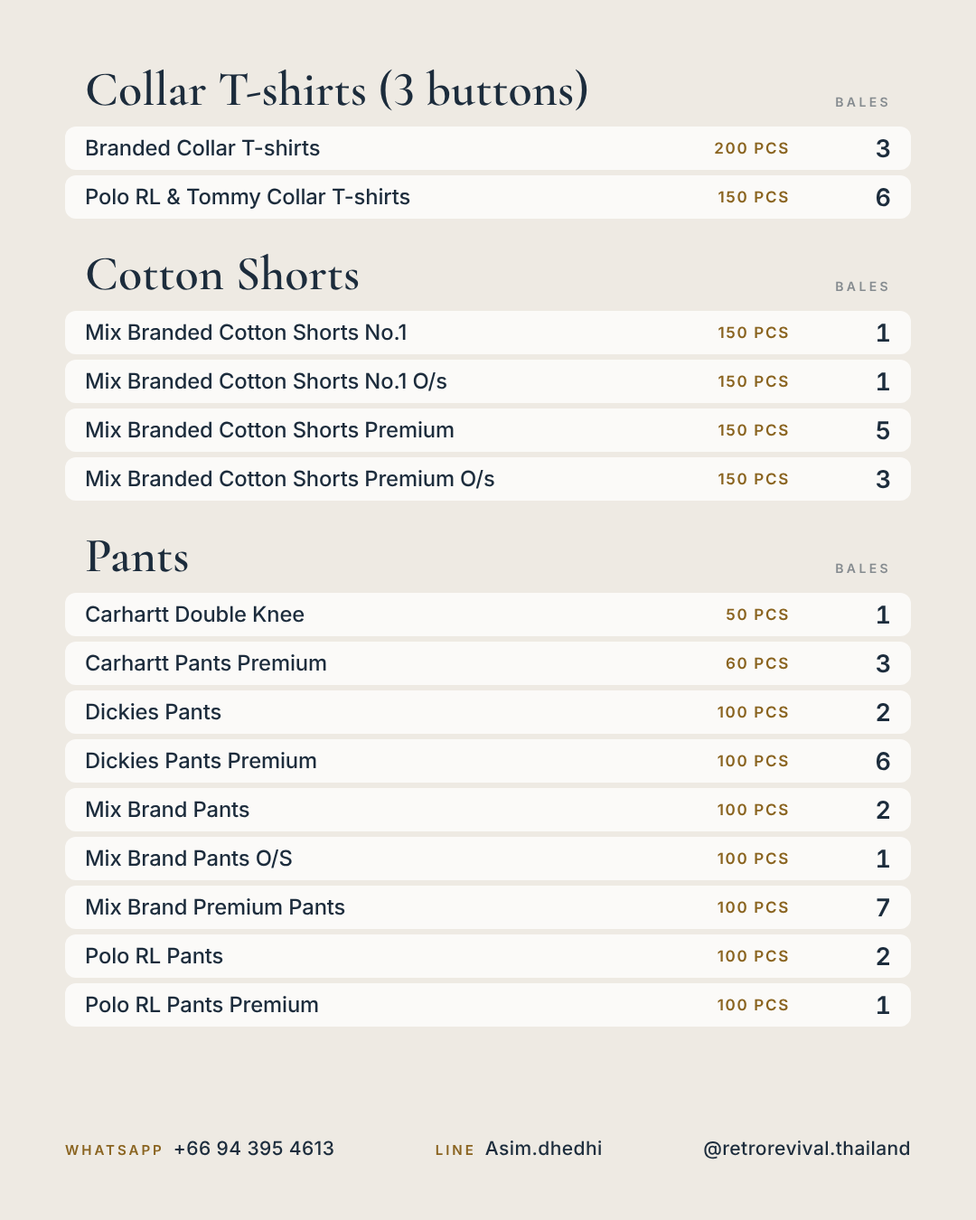
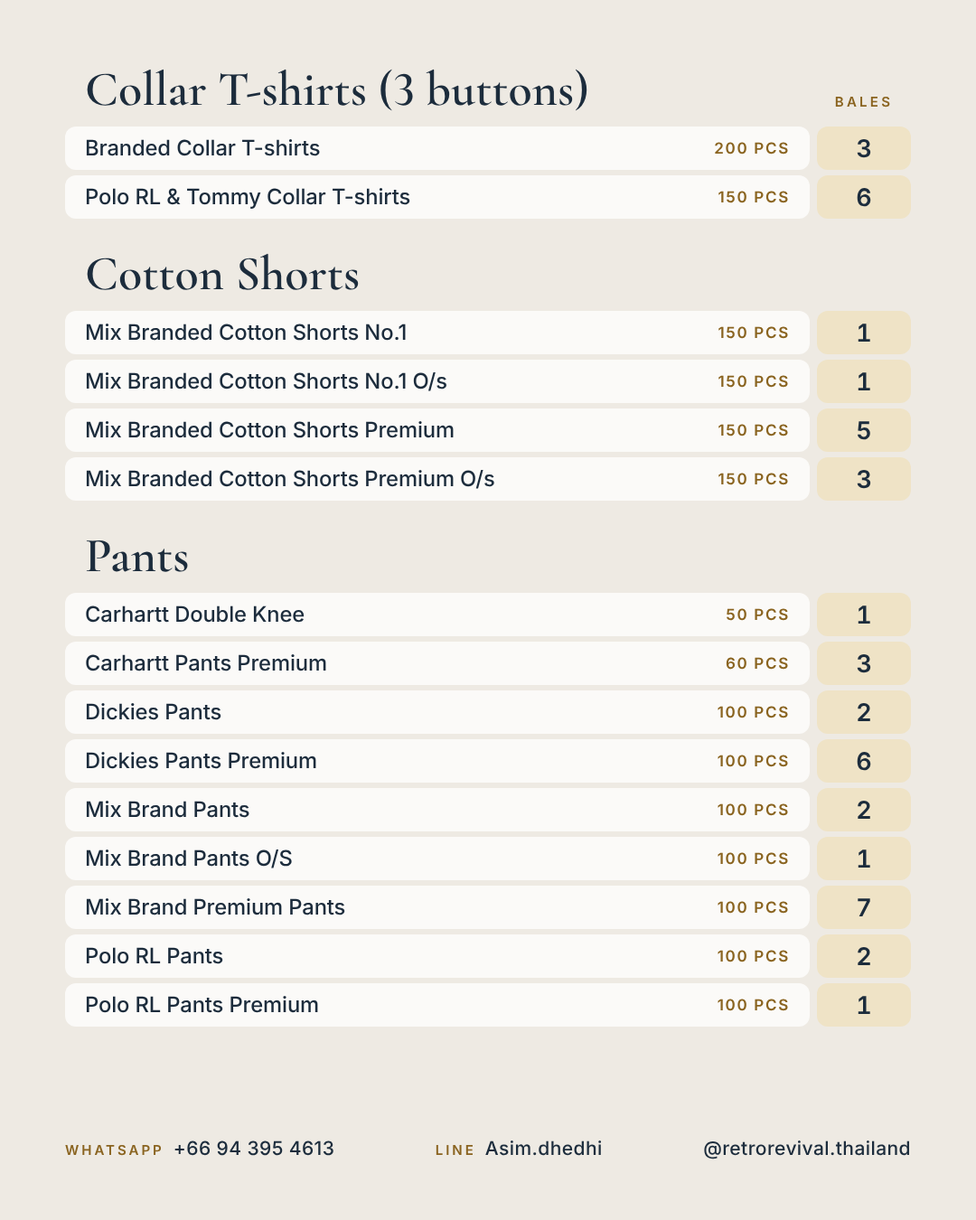
Cover section pills; bale counts in their own box
Cover drops the eyebrow and the containers line and lists every section
as a pill under the month. List rows split into a name-and-packing
container and a separate bale-count box, with one BALES label per
slide. The build stops if cover pills reach the logo or drawing.

Claude-Session: https://claude.ai/code/session_01FjARQ1TdBw1wsppj9LT4t6

Changed region(s): [[0.825, 0.4667, 0.9472, 0.84], [0.825, 0.2178, 0.9472, 0.4356], [0.825, 0.0622, 0.9472, 0.1867]]

diff --git a/projects/stock-drop/output/2026-10/carousel.html b/projects/stock-drop/output/2026-10/carousel.html
@@ -76,11 +76,10 @@
 <path d="M218.0,128 q8,10 18,22" class="strap"/><g transform="rotate(-10 248.0 172)"><rect x="234.0" y="152" width="30" height="40" rx="3" fill="#18273a"/><circle cx="249.0" cy="160" r="2.6"/><path d="M240.0,172 h18 M240.0,180 h12" class="strap"/></g>
 </svg></div>
     <div class="cover-text">
-      <div class="eyebrow">Monthly wholesale release</div>
       <h1>Stock Drop</h1>
       <div class="month">October 2026</div>
-      <div class="rule"></div>
-      <div class="pillars">Fresh containers every month, sorted into categorized bales<br>Lat Krabang, Bangkok · 20 minutes from Suvarnabhumi Airport</div>
+      <div class="pills"><span>Collar T-shirts (3 buttons)</span><span>Army</span><span>Baby</span><span>Branded T-shirts</span><span>Broken</span><span>Caps</span><span>Cotton Shorts</span><span>Jeans</span><span>Men Shirts</span><span>Overall</span><span>Pants</span><span>Printed T-shirts</span><span>Sports Shorts</span><span>Sports T-shirts</span><span>Summer Mix</span><span>Trousers</span><span>Winter</span></div>
+      <div class="pillars">Lat Krabang, Bangkok · 20 minutes from Suvarnabhumi Airport</div>
       <div class="cover-contacts"><span><b>WHATSAPP</b>+66 94 395 4613</span><span><b>LINE</b>Asim.dhedhi</span></div>
     </div>
     <div class="swipe">SWIPE<span>→</span></div>
@@ -91,31 +90,31 @@
       <div class="block">
         <div class="section-head"><h2>Collar T-shirts (3 buttons)</h2><span class="qt">Bales</span></div>
         <ul class="rows">
-          <li><span class="cat">Branded Collar T-shirts</span><span class="pk">200 Pcs</span><span class="qty">3</span></li>
-          <li><span class="cat">Polo RL &amp; Tommy Collar T-shirts</span><span class="pk">150 Pcs</span><span class="qty">6</span></li>
+          <li><span class="item"><span class="cat">Branded Collar T-shirts</span><span class="pk">200 Pcs</span></span><span class="qty">3</span></li>
+          <li><span class="item"><span class="cat">Polo RL &amp; Tommy Collar T-shirts</span><span class="pk">150 Pcs</span></span><span class="qty">6</span></li>
         </ul>
       </div>
       <div class="block">
-        <div class="section-head"><h2>Cotton Shorts</h2><span class="qt">Bales</span></div>
+        <div class="section-head"><h2>Cotton Shorts</h2></div>
         <ul class="rows">
-          <li><span class="cat">Mix Branded Cotton Shorts No.1</span><span class="pk">150 Pcs</span><span class="qty">1</span></li>
-          <li><span class="cat">Mix Branded Cotton Shorts No.1 O/s</span><span class="pk">150 Pcs</span><span class="qty">1</span></li>
-          <li><span class="cat">Mix Branded Cotton Shorts Premium</span><span class="pk">150 Pcs</span><span class="qty">5</span></li>
-          <li><span class="cat">Mix Branded Cotton Shorts Premium O/s</span><span class="pk">150 Pcs</span><span class="qty">3</span></li>
+          <li><span class="item"><span class="cat">Mix Branded Cotton Shorts No.1</span><span class="pk">150 Pcs</span></span><span class="qty">1</span></li>
+          <li><span class="item"><span class="cat">Mix Branded Cotton Shorts No.1 O/s</span><span class="pk">150 Pcs</span></span><span class="qty">1</span></li>
+          <li><span class="item"><span class="cat">Mix Branded Cotton Shorts Premium</span><span class="pk">150 Pcs</span></span><span class="qty">5</span></li>
+          <li><span class="item"><span class="cat">Mix Branded Cotton Shorts Premium O/s</span><span class="pk">150 Pcs</span></span><span class="qty">3</span></li>
         </ul>
       </div>
       <div class="block">
-        <div class="section-head"><h2>Pants</h2><span class="qt">Bales</span></div>
+        <div class="section-head"><h2>Pants</h2></div>
         <ul class="rows">
-          <li><span class="cat">Carhartt Double Knee</span><span class="pk">50 Pcs</span><span class="qty">1</span></li>
-          <li><span class="cat">Carhartt Pants Premium</span><span class="pk">60 Pcs</span><span class="qty">3</span></li>
-          <li><span class="cat">Dickies Pants</span><span class="pk">100 Pcs</span><span class="qty">2</span></li>
-          <li><span class="cat">Dickies Pants Premium</span><span class="pk">100 Pcs</span><span class="qty">6</span></li>
-          <li><span class="cat">Mix Brand Pants</span><span class="pk">100 Pcs</span><span class="qty">2</span></li>
-          <li><span class="cat">Mix Brand Pants O/S</span><span class="pk">100 Pcs</span><span class="qty">1</span></li>
-          <li><span class="cat">Mix Brand Premium Pants</span><span class="pk">100 Pcs</span><span class="qty">7</span></li>
-          <li><span class="cat">Polo RL Pants</span><span class="pk">100 Pcs</span><span class="qty">2</span></li>
-          <li><span class="cat">Polo RL Pants Premium</span><span class="pk">100 Pcs</span><span class="qty">1</span></li>
+          <li><span class="item"><span class="cat">Carhartt Double Knee</span><span class="pk">50 Pcs</span></span><span class="qty">1</span></li>
+          <li><span class="item"><span class="cat">Carhartt Pants Premium</span><span class="pk">60 Pcs</span></span><span class="qty">3</span></li>
+          <li><span class="item"><span class="cat">Dickies Pants</span><span class="pk">100 Pcs</span></span><span class="qty">2</span></li>
+          <li><span class="item"><span class="cat">Dickies Pants Premium</span><span class="pk">100 Pcs</span></span><span class="qty">6</span></li>
+          <li><span class="item"><span class="cat">Mix Brand Pants</span><span class="pk">100 Pcs</span></span><span class="qty">2</span></li>
+          <li><span class="item"><span class="cat">Mix Brand Pants O/S</span><span class="pk">100 Pcs</span></span><span class="qty">1</span></li>
+          <li><span class="item"><span class="cat">Mix Brand Premium Pants</span><span class="pk">100 Pcs</span></span><span class="qty">7</span></li>
+          <li><span class="item"><span class="cat">Polo RL Pants</span><span class="pk">100 Pcs</span></span><span class="qty">2</span></li>
+          <li><span class="item"><span class="cat">Polo RL Pants Premium</span><span class="pk">100 Pcs</span></span><span class="qty">1</span></li>
         </ul>
       </div>
     </div>
@@ -133,36 +132,36 @@
       <div class="block">
         <div class="section-head"><h2>Army</h2><span class="qt">Bales</span></div>
         <ul class="rows">
-          <li><span class="cat">Army Summer Mix</span><span class="pk">60 Pcs</span><span class="qty">8</span></li>
-          <li><span class="cat">Vintage Army Mix Broken</span><span class="pk">100 Lbs</span><span class="qty">3</span></li>
+          <li><span class="item"><span class="cat">Army Summer Mix</span><span class="pk">60 Pcs</span></span><span class="qty">8</span></li>
+          <li><span class="item"><span class="cat">Vintage Army Mix Broken</span><span class="pk">100 Lbs</span></span><span class="qty">3</span></li>
         </ul>
       </div>
       <div class="block">
-        <div class="section-head"><h2>Baby</h2><span class="qt">Bales</span></div>
+        <div class="section-head"><h2>Baby</h2></div>
         <ul class="rows">
-          <li><span class="cat">Baby Vintage</span><span class="pk">100 Lbs</span><span class="qty">9</span></li>
+          <li><span class="item"><span class="cat">Baby Vintage</span><span class="pk">100 Lbs</span></span><span class="qty">9</span></li>
         </ul>
       </div>
       <div class="block">
-        <div class="section-head"><h2>Overall</h2><span class="qt">Bales</span></div>
+        <div class="section-head"><h2>Overall</h2></div>
         <ul class="rows">
-          <li><span class="cat">Canvas Material</span><span class="pk">30 Pcs</span><span class="qty">2</span></li>
-          <li><span class="cat">Cotton Overall Mix</span><span class="pk">30 Pcs</span><span class="qty">1</span></li>
-          <li><span class="cat">Jeans Material</span><span class="pk">30 Pcs</span><span class="qty">3</span></li>
+          <li><span class="item"><span class="cat">Canvas Material</span><span class="pk">30 Pcs</span></span><span class="qty">2</span></li>
+          <li><span class="item"><span class="cat">Cotton Overall Mix</span><span class="pk">30 Pcs</span></span><span class="qty">1</span></li>
+          <li><span class="item"><span class="cat">Jeans Material</span><span class="pk">30 Pcs</span></span><span class="qty">3</span></li>
         </ul>
       </div>
       <div class="block">
-        <div class="section-head"><h2>Sports T-shirts</h2><span class="qt">Bales</span></div>
+        <div class="section-head"><h2>Sports T-shirts</h2></div>
         <ul class="rows">
-          <li><span class="cat">NBA/NFL Jerseys</span><span class="pk">150 Pcs</span><span class="qty">2</span></li>
-          <li><span class="cat">Sports Branded T-shirts</span><span class="pk">200 Pcs</span><span class="qty">4</span></li>
+          <li><span class="item"><span class="cat">NBA/NFL Jerseys</span><span class="pk">150 Pcs</span></span><span class="qty">2</span></li>
+          <li><span class="item"><span class="cat">Sports Branded T-shirts</span><span class="pk">200 Pcs</span></span><span class="qty">4</span></li>
         </ul>
       </div>
       <div class="block">
-        <div class="section-head"><h2>Trousers</h2><span class="qt">Bales</span></div>
+        <div class="section-head"><h2>Trousers</h2></div>
         <ul class="rows">
-          <li><span class="cat">Track Mix Trouser</span><span class="pk">100 pcs</span><span class="qty">4</span></li>
-          <li><span class="cat">Vintage mix Trouser</span><span class="pk">100 Pcs</span><span class="qty">2</span></li>
+          <li><span class="item"><span class="cat">Track Mix Trouser</span><span class="pk">100 pcs</span></span><span class="qty">4</span></li>
+          <li><span class="item"><span class="cat">Vintage mix Trouser</span><span class="pk">100 Pcs</span></span><span class="qty">2</span></li>
         </ul>
       </div>
     </div>
@@ -180,28 +179,28 @@
       <div class="block">
         <div class="section-head"><h2>Branded T-shirts</h2><span class="qt">Bales</span></div>
         <ul class="rows">
-          <li><span class="cat">Branded T-Shirts Over Size</span><span class="pk">100 Lbs</span><span class="qty">5</span></li>
-          <li><span class="cat">Carhartt T-Shirts</span><span class="pk">150 Pcs</span><span class="qty">4</span></li>
-          <li><span class="cat">Mix Branded T-shirts</span><span class="pk">200 Pcs</span><span class="qty">17</span></li>
+          <li><span class="item"><span class="cat">Branded T-Shirts Over Size</span><span class="pk">100 Lbs</span></span><span class="qty">5</span></li>
+          <li><span class="item"><span class="cat">Carhartt T-Shirts</span><span class="pk">150 Pcs</span></span><span class="qty">4</span></li>
+          <li><span class="item"><span class="cat">Mix Branded T-shirts</span><span class="pk">200 Pcs</span></span><span class="qty">17</span></li>
         </ul>
       </div>
       <div class="block">
-        <div class="section-head"><h2>Printed T-shirts</h2><span class="qt">Bales</span></div>
+        <div class="section-head"><h2>Printed T-shirts</h2></div>
         <ul class="rows">
-          <li><span class="cat">Vintage Oversize Printed T-Shirts</span><span class="pk">100 Lbs</span><span class="qty">9</span></li>
-          <li><span class="cat">France T-Shirts</span><span class="pk">100 Lbs</span><span class="qty">4</span></li>
-          <li><span class="cat">50/50 T-shirts</span><span class="pk">200 Pcs</span><span class="qty">3</span></li>
-          <li><span class="cat">American Movie Print T-shirts</span><span class="pk">200 Pcs</span><span class="qty">6</span></li>
-          <li><span class="cat">Anime Cartoon Print T-shirts</span><span class="pk">200 Pcs</span><span class="qty">2</span></li>
-          <li><span class="cat">Army Mix T-shirts</span><span class="pk">200 Pcs</span><span class="qty">1</span></li>
-          <li><span class="cat">Disney Cartoon T-shirts</span><span class="pk">200 Pcs</span><span class="qty">4</span></li>
-          <li><span class="cat">Harley-Davidson T-shirts</span><span class="pk">150 Pcs</span><span class="qty">3</span></li>
-          <li><span class="cat">Marvel Movie Print</span><span class="pk">200 Pcs</span><span class="qty">2</span></li>
-          <li><span class="cat">Mountain T-shirts</span><span class="pk">150 Pcs</span><span class="qty">1</span></li>
-          <li><span class="cat">Music T-shirts</span><span class="pk">200 Pcs</span><span class="qty">12</span></li>
-          <li><span class="cat">NASCAR T-shirts</span><span class="pk">150 Pcs</span><span class="qty">1</span></li>
-          <li><span class="cat">Single Stitch T-shirts</span><span class="pk">200 Pcs</span><span class="qty">4</span></li>
-          <li><span class="cat">Vintage Printed T-shirts</span><span class="pk">200 Pcs</span><span class="qty">18</span></li>
+          <li><span class="item"><span class="cat">Vintage Oversize Printed T-Shirts</span><span class="pk">100 Lbs</span></span><span class="qty">9</span></li>
+          <li><span class="item"><span class="cat">France T-Shirts</span><span class="pk">100 Lbs</span></span><span class="qty">4</span></li>
+          <li><span class="item"><span class="cat">50/50 T-shirts</span><span class="pk">200 Pcs</span></span><span class="qty">3</span></li>
+          <li><span class="item"><span class="cat">American Movie Print T-shirts</span><span class="pk">200 Pcs</span></span><span class="qty">6</span></li>
+          <li><span class="item"><span class="cat">Anime Cartoon Print T-shirts</span><span class="pk">200 Pcs</span></span><span class="qty">2</span></li>
+          <li><span class="item"><span class="cat">Army Mix T-shirts</span><span class="pk">200 Pcs</span></span><span class="qty">1</span></li>
+          <li><span class="item"><span class="cat">Disney Cartoon T-shirts</span><span class="pk">200 Pcs</span></span><span class="qty">4</span></li>
+          <li><span class="item"><span class="cat">Harley-Davidson T-shirts</span><span class="pk">150 Pcs</span></span><span class="qty">3</span></li>
+          <li><span class="item"><span class="cat">Marvel Movie Print</span><span class="pk">200 Pcs</span></span><span class="qty">2</span></li>
+          <li><span class="item"><span class="cat">Mountain T-shirts</span><span class="pk">150 Pcs</span></span><span class="qty">1</span></li>
+          <li><span class="item"><span class="cat">Music T-shirts</span><span class="pk">200 Pcs</span></span><span class="qty">12</span></li>
+          <li><span class="item"><span class="cat">NASCAR T-shirts</span><span class="pk">150 Pcs</span></span><span class="qty">1</span></li>
+          <li><span class="item"><span class="cat">Single Stitch T-shirts</span><span class="pk">200 Pcs</span></span><span class="qty">4</span></li>
+          <li><span class="item"><span class="cat">Vintage Printed T-shirts</span><span class="pk">200 Pcs</span></span><span class="qty">18</span></li>
         </ul>
       </div>
     </div>
@@ -219,26 +218,26 @@
       <div class="block">
         <div class="section-head"><h2>Broken</h2><span class="qt">Bales</span></div>
         <ul class="rows">
-          <li><span class="cat">Levi's Coded Broken</span><span class="pk">60 Pcs</span><span class="qty">32</span></li>
-          <li><span class="cat">Vintage Broken T-Shirts</span><span class="pk">100 Lbs</span><span class="qty">21</span></li>
-          <li><span class="cat">Vintage Carhartt Mix Broken</span><span class="pk">100 Lbs</span><span class="qty">62</span></li>
-          <li><span class="cat">Vintage Dickies Mix Broken</span><span class="pk">100 Lbs</span><span class="qty">68</span></li>
-          <li><span class="cat">CN Jackets PK</span><span class="pk">100 Lbs</span><span class="qty">1</span></li>
-          <li><span class="cat">Polo RL Cut</span><span class="pk">100 Lbs</span><span class="qty">1</span></li>
+          <li><span class="item"><span class="cat">Levi's Coded Broken</span><span class="pk">60 Pcs</span></span><span class="qty">32</span></li>
+          <li><span class="item"><span class="cat">Vintage Broken T-Shirts</span><span class="pk">100 Lbs</span></span><span class="qty">21</span></li>
+          <li><span class="item"><span class="cat">Vintage Carhartt Mix Broken</span><span class="pk">100 Lbs</span></span><span class="qty">62</span></li>
+          <li><span class="item"><span class="cat">Vintage Dickies Mix Broken</span><span class="pk">100 Lbs</span></span><span class="qty">68</span></li>
+          <li><span class="item"><span class="cat">CN Jackets PK</span><span class="pk">100 Lbs</span></span><span class="qty">1</span></li>
+          <li><span class="item"><span class="cat">Polo RL Cut</span><span class="pk">100 Lbs</span></span><span class="qty">1</span></li>
         </ul>
       </div>
       <div class="block">
-        <div class="section-head"><h2>Men Shirts</h2><span class="qt">Bales</span></div>
+        <div class="section-head"><h2>Men Shirts</h2></div>
         <ul class="rows">
-          <li><span class="cat">Chaps &amp; Nautica Mix Shirts</span><span class="pk">150 Pcs</span><span class="qty">8</span></li>
-          <li><span class="cat">Cowboy Shirts</span><span class="pk">150 Pcs</span><span class="qty">3</span></li>
-          <li><span class="cat">Hawaii Shirts</span><span class="pk">150 Pcs</span><span class="qty">7</span></li>
-          <li><span class="cat">LLW Shirts</span><span class="pk">150 Pcs</span><span class="qty">3</span></li>
-          <li><span class="cat">Polo RL Shirts</span><span class="pk">150 Pcs</span><span class="qty">4</span></li>
-          <li><span class="cat">Premium Fashion Branded Shirts</span><span class="pk">150 Pcs</span><span class="qty">4</span></li>
-          <li><span class="cat">Premium Vintage Branded Shirts</span><span class="pk">150 Pcs</span><span class="qty">7</span></li>
-          <li><span class="cat">Scout Shirts</span><span class="pk">150 Pcs</span><span class="qty">4</span></li>
-          <li><span class="cat">Tommy Hilfiger Shirts</span><span class="pk">150 Pcs</span><span class="qty">2</span></li>
+          <li><span class="item"><span class="cat">Chaps &amp; Nautica Mix Shirts</span><span class="pk">150 Pcs</span></span><span class="qty">8</span></li>
+          <li><span class="item"><span class="cat">Cowboy Shirts</span><span class="pk">150 Pcs</span></span><span class="qty">3</span></li>
+          <li><span class="item"><span class="cat">Hawaii Shirts</span><span class="pk">150 Pcs</span></span><span class="qty">7</span></li>
+          <li><span class="item"><span class="cat">LLW Shirts</span><span class="pk">150 Pcs</span></span><span class="qty">3</span></li>
+          <li><span class="item"><span class="cat">Polo RL Shirts</span><span class="pk">150 Pcs</span></span><span class="qty">4</span></li>
+          <li><span class="item"><span class="cat">Premium Fashion Branded Shirts</span><span class="pk">150 Pcs</span></span><span class="qty">4</span></li>
+          <li><span class="item"><span class="cat">Premium Vintage Branded Shirts</span><span class="pk">150 Pcs</span></span><span class="qty">7</span></li>
+          <li><span class="item"><span class="cat">Scout Shirts</span><span class="pk">150 Pcs</span></span><span class="qty">4</span></li>
+          <li><span class="item"><span class="cat">Tommy Hilfiger Shirts</span><span class="pk">150 Pcs</span></span><span class="qty">2</span></li>
         </ul>
       </div>
     </div>
@@ -256,25 +255,25 @@
       <div class="block">
         <div class="section-head"><h2>Jeans</h2><span class="qt">Bales</span></div>
         <ul class="rows">
-          <li><span class="cat">Carhartt jeans</span><span class="pk">50 Pcs</span><span class="qty">2</span></li>
-          <li><span class="cat">Lee &amp; Wrangler O/s</span><span class="pk">60 Pcs</span><span class="qty">4</span></li>
-          <li><span class="cat">Lee &amp; Wrangler Premium</span><span class="pk">60 Pcs</span><span class="qty">7</span></li>
-          <li><span class="cat">Levi's 501</span><span class="pk">50 Pcs</span><span class="qty">2</span></li>
-          <li><span class="cat">Levi's 505 O/s</span><span class="pk">50 Pcs</span><span class="qty">1</span></li>
-          <li><span class="cat">Levi's 550</span><span class="pk">50 Pcs</span><span class="qty">3</span></li>
-          <li><span class="cat">Levi's 550 O/s</span><span class="pk">50 Pcs</span><span class="qty">2</span></li>
-          <li><span class="cat">Levi's Mix coded O/S</span><span class="pk">60 Pcs</span><span class="qty">1</span></li>
-          <li><span class="cat">Levi's Mix coded Premium</span><span class="pk">60 Pcs</span><span class="qty">8</span></li>
-          <li><span class="cat">Levi's Mix codes</span><span class="pk">60 Pcs</span><span class="qty">6</span></li>
-          <li><span class="cat">Levi's VTG -USA</span><span class="pk">50 Pcs</span><span class="qty">1</span></li>
-          <li><span class="cat">Levi's 501 O/s</span><span class="pk">50 Pcs</span><span class="qty">1</span></li>
-          <li><span class="cat">Levi's 501 Premium</span><span class="pk">50 Pcs</span><span class="qty">2</span></li>
-          <li><span class="cat">Levi's 505</span><span class="pk">50 Pcs</span><span class="qty">5</span></li>
-          <li><span class="cat">Mix Branded Jeans</span><span class="pk">60 Pcs</span><span class="qty">1</span></li>
-          <li><span class="cat">Mix Branded Jeans Premium</span><span class="pk">60 Pcs</span><span class="qty">3</span></li>
-          <li><span class="cat">Rustler Jeans Mix</span><span class="pk">60 Pcs</span><span class="qty">3</span></li>
-          <li><span class="cat">Dickies Jeans</span><span class="pk">50 Pcs</span><span class="qty">2</span></li>
-          <li><span class="cat">Lee &amp; Wrangler</span><span class="pk">60 Pcs</span><span class="qty">7</span></li>
+          <li><span class="item"><span class="cat">Carhartt jeans</span><span class="pk">50 Pcs</span></span><span class="qty">2</span></li>
+          <li><span class="item"><span class="cat">Lee &amp; Wrangler O/s</span><span class="pk">60 Pcs</span></span><span class="qty">4</span></li>
+          <li><span class="item"><span class="cat">Lee &amp; Wrangler Premium</span><span class="pk">60 Pcs</span></span><span class="qty">7</span></li>
+          <li><span class="item"><span class="cat">Levi's 501</span><span class="pk">50 Pcs</span></span><span class="qty">2</span></li>
+          <li><span class="item"><span class="cat">Levi's 505 O/s</span><span class="pk">50 Pcs</span></span><span class="qty">1</span></li>
+          <li><span class="item"><span class="cat">Levi's 550</span><span class="pk">50 Pcs</span></span><span class="qty">3</span></li>
+          <li><span class="item"><span class="cat">Levi's 550 O/s</span><span class="pk">50 Pcs</span></span><span class="qty">2</span></li>
+          <li><span class="item"><span class="cat">Levi's Mix coded O/S</span><span class="pk">60 Pcs</span></span><span class="qty">1</span></li>
+          <li><span class="item"><span class="cat">Levi's Mix coded Premium</span><span class="pk">60 Pcs</span></span><span class="qty">8</span></li>
+          <li><span class="item"><span class="cat">Levi's Mix codes</span><span class="pk">60 Pcs</span></span><span class="qty">6</span></li>
+          <li><span class="item"><span class="cat">Levi's VTG -USA</span><span class="pk">50 Pcs</span></span><span class="qty">1</span></li>
+          <li><span class="item"><span class="cat">Levi's 501 O/s</span><span class="pk">50 Pcs</span></span><span class="qty">1</span></li>
+          <li><span class="item"><span class="cat">Levi's 501 Premium</span><span class="pk">50 Pcs</span></span><span class="qty">2</span></li>
+          <li><span class="item"><span class="cat">Levi's 505</span><span class="pk">50 Pcs</span></span><span class="qty">5</span></li>
+          <li><span class="item"><span class="cat">Mix Branded Jeans</span><span class="pk">60 Pcs</span></span><span class="qty">1</span></li>
+          <li><span class="item"><span class="cat">Mix Branded Jeans Premium</span><span class="pk">60 Pcs</span></span><span class="qty">3</span></li>
+          <li><span class="item"><span class="cat">Rustler Jeans Mix</span><span class="pk">60 Pcs</span></span><span class="qty">3</span></li>
+          <li><span class="item"><span class="cat">Dickies Jeans</span><span class="pk">50 Pcs</span></span><span class="qty">2</span></li>
+          <li><span class="item"><span class="cat">Lee &amp; Wrangler</span><span class="pk">60 Pcs</span></span><span class="qty">7</span></li>
         </ul>
       </div>
     </div>
@@ -292,25 +291,25 @@
       <div class="block">
         <div class="section-head"><h2>Caps</h2><span class="qt">Bales</span></div>
         <ul class="rows">
-          <li><span class="cat">Vintage Caps</span><span class="pk">200 PCs</span><span class="qty">3</span></li>
+          <li><span class="item"><span class="cat">Vintage Caps</span><span class="pk">200 PCs</span></span><span class="qty">3</span></li>
         </ul>
       </div>
       <div class="block">
-        <div class="section-head"><h2>Sports Shorts</h2><span class="qt">Bales</span></div>
+        <div class="section-head"><h2>Sports Shorts</h2></div>
         <ul class="rows">
-          <li><span class="cat">Branded Sports Shorts Mix</span><span class="pk">200 Pcs</span><span class="qty">4</span></li>
+          <li><span class="item"><span class="cat">Branded Sports Shorts Mix</span><span class="pk">200 Pcs</span></span><span class="qty">4</span></li>
         </ul>
       </div>
       <div class="block">
-        <div class="section-head"><h2>Summer Mix</h2><span class="qt">Bales</span></div>
+        <div class="section-head"><h2>Summer Mix</h2></div>
         <ul class="rows">
-          <li><span class="cat">Vintage Light Mix</span><span class="pk">100 Lbs</span><span class="qty">4</span></li>
+          <li><span class="item"><span class="cat">Vintage Light Mix</span><span class="pk">100 Lbs</span></span><span class="qty">4</span></li>
         </ul>
       </div>
       <div class="block">
-        <div class="section-head"><h2>Winter</h2><span class="qt">Bales</span></div>
+        <div class="section-head"><h2>Winter</h2></div>
         <ul class="rows">
-          <li><span class="cat">Vintage Mix Heavy</span><span class="pk">60 Pcs</span><span class="qty">164</span></li>
+          <li><span class="item"><span class="cat">Vintage Mix Heavy</span><span class="pk">60 Pcs</span></span><span class="qty">164</span></li>
         </ul>
       </div>
     </div>

diff --git a/projects/stock-drop/template/styles.css b/projects/stock-drop/template/styles.css
@@ -29,6 +29,7 @@
   --cream: #f7f6f4;       /* logo background */
   --paper: #eeeae3;       /* list-slide background, a shade deeper than cream */
   --card: #fbfaf8;        /* list-row container */
+  --qty-box: #efe3c6;     /* bale-number box, a light gold tint */
   --rule: rgba(28, 44, 60, 0.16);
   --serif: "Cormorant Garamond", Georgia, serif;
   --sans: "Inter", Helvetica, Arial, sans-serif;
@@ -93,7 +94,6 @@ body { background: #555; font-family: var(--sans); color: var(--navy); }
 
 /* Cover */
 .cover-text { position: absolute; left: 80px; right: 80px; bottom: 120px; }
-.cover-text .eyebrow { color: var(--gold-light); }
 .cover-text h1 {
   margin-top: 30px; font: 600 180px/0.9 var(--serif); font-variant-numeric: lining-nums;
   letter-spacing: -0.01em; color: var(--cream); white-space: nowrap; overflow: hidden;
@@ -101,10 +101,12 @@ body { background: #555; font-family: var(--sans); color: var(--navy); }
 .cover-text .month {
   margin-top: 48px; font: italic 500 84px/1 var(--serif); font-variant-numeric: lining-nums; color: var(--gold-light);
 }
-.cover-text .rule { width: 120px; height: 2px; background: var(--gold); margin: 44px 0 30px; }
-.cover-text .pillars {
-  font: 400 25px/1.5 var(--sans); color: rgba(247, 246, 244, 0.82);
+.cover-text .pills { margin-top: 40px; display: flex; flex-wrap: wrap; gap: 10px; }
+.cover-text .pills span {
+  padding: 11px 18px; border-radius: 999px; background: rgba(247, 246, 244, 0.09);
+  font: 500 21px/1 var(--sans); color: var(--cream); white-space: nowrap;
 }
+.cover-text .pillars { margin-top: 36px; font: 400 25px/1.5 var(--sans); color: rgba(247, 246, 244, 0.82); }
 /* Line drawing of bales, top right, opposite the logo (--no-cover-art turns it off). */
 .cover-art { position: absolute; right: 56px; top: 96px; width: 440px; color: var(--gold-light); opacity: 0.9; }
 .cover-art svg { display: block; width: 100%; height: auto; }
@@ -124,24 +126,30 @@ body { background: #555; font-family: var(--sans); color: var(--navy); }
 .block + .block { margin-top: 26px; }
 .section-head {
   display: flex; align-items: flex-end; gap: 20px;
-  height: 76px; padding: 0 22px 14px;
+  height: 76px; padding: 0 0 14px 22px;
 }
 .section-head h2 { margin: 0; font: 600 54px/1 var(--serif); font-variant-numeric: lining-nums; white-space: nowrap; }
 .section-head .qt {
-  margin-left: auto; padding-bottom: 6px; font: 600 14px/1 var(--sans); letter-spacing: 0.24em;
-  text-transform: uppercase; color: rgba(28,44,60,0.5);
+  margin-left: auto; padding-bottom: 6px; font: 600 15px/1 var(--sans); letter-spacing: 0.22em;
+  text-transform: uppercase; color: var(--gold-dark); text-align: center;
 }
 
-/* Columns: description · packing · quantity */
-.rows .pk { width: 150px; text-align: right; }
-.section-head .qt, .rows .qty { width: 96px; text-align: right; }
+/* Row: [ name · packing ] [ bales ]. One "BALES" label per slide sits above the box column. */
+.section-head .qt, .rows .qty { width: 104px; }
 
 .rows li {
+  list-style: none; display: flex; gap: 8px;
+  height: calc(var(--row) - 6px); margin-bottom: 6px;
+}
+.rows .item {
   /* Each line sits in a soft container; the gap between containers replaces rules. */
-  list-style: none; display: flex; align-items: center; gap: 16px;
-  height: calc(var(--row) - 6px); margin-bottom: 6px; padding: 0 22px;
-  background: var(--card); border-radius: 12px;
+  flex: 1; min-width: 0; display: flex; align-items: center; gap: 16px;
+  padding: 0 22px; background: var(--card); border-radius: 12px;
 }
 .rows .cat { flex: 1; min-width: 0; font: 500 calc(var(--row) * 0.44)/1.15 var(--sans); letter-spacing: -0.005em; white-space: nowrap; overflow: hidden; }
 .rows .pk { flex: none; font: 600 17px/1 var(--sans); letter-spacing: 0.1em; text-transform: uppercase; color: var(--gold-dark); white-space: nowrap; overflow: hidden; }
-.rows .qty { flex: none; font: 600 calc(var(--row) * 0.5)/1 var(--sans); font-variant-numeric: tabular-nums; }
+.rows .qty {
+  flex: none; display: flex; align-items: center; justify-content: center;
+  background: var(--qty-box); border-radius: 12px;
+  font: 600 calc(var(--row) * 0.5)/1 var(--sans); font-variant-numeric: tabular-nums;
+}

diff --git a/projects/stock-drop/README.md b/projects/stock-drop/README.md
@@ -77,8 +77,8 @@ Less is more: **7 slides at most**, the cover and the list. Nothing else.
 
 | # | Slide | Content |
 | :- | :- | :- |
-| 1 | Cover | Logo top left, line drawing of bales top right, "Stock Drop" on one line, month, location, WhatsApp and LINE |
-| 2–7 | List | Section name, then one line per bale: description, packing, bales. **A section is never split across slides** |
+| 1 | Cover | Logo top left, line drawing of bales top right, "Stock Drop" on one line, month, every section as a pill, location, WhatsApp and LINE |
+| 2–7 | List | Section name, then one row per bale: a container with the description and packing, and a separate box with the number of bales. One "BALES" label per slide sits above the boxes. **A section is never split across slides** |
 
 - List slides carry only the list, plus a footer with WhatsApp, LINE, and Instagram. The logo appears on the cover only. No index, totals, page numbers, or section numbers.
 - **Packing:** sections are rearranged to fit, largest first, so the slides don't follow sheet order. Within a slide, sections keep sheet order.
@@ -89,7 +89,8 @@ Contact details come from `src/brand.mjs`. Keep that file in sync with the [busi
 
 ## Design system
 
-- **List rows:** each bale line sits in a soft, near-white container on a warm cream slide. No rules or dotted leaders: the containers guide the eye.
+- **List rows:** each bale line sits in a soft, near-white container on a warm cream slide, with the bale count in a light gold box beside it. No rules or dotted leaders: the containers guide the eye.
+- **Cover pills:** the build checks that the pills never run into the logo or the drawing.
 - **Colours:** taken from the logo (see [brand direction](../../docs/strategy/brand-direction.md#colours)).
 - **Type:** Cormorant Garamond for headings, always with lining figures (its default old-style numerals drop below the line). Inter for descriptions, packing, and bale quantities. Both use the SIL Open Font License, and the files are bundled in `template/fonts/`.
 - **Logo:** `assets/brand/logo-primary-trimmed.png` is the official file, cropped only. It sits on an off-white plate because the file has no transparent background.

diff --git a/docs/client/decisions.md b/docs/client/decisions.md
@@ -4,6 +4,7 @@ Answers and decisions confirmed by the client or Hammad. Add new entries at the 
 
 | Date | Decision | Source | Docs updated |
 | :- | :- | :- | :- |
+| 2026-10-10 | Cover lists every section as a pill; "Monthly wholesale release" and "Fresh containers every month" removed. List rows put the bale count in its own box, with one "BALES" label per slide | Hammad | projects/stock-drop |
 | 2026-10-10 | Cover B chosen: logo top left (enlarged), gold line drawing of bales top right, "Stock Drop" on one line. A/B record in `projects/stock-drop/reviews/2026-10-cover-ab/` | Hammad | projects/stock-drop |
 | 2026-10-10 | List rows use soft containers instead of rules and dotted leaders | Hammad | projects/stock-drop |
 | 2026-10-10 | The logo appears on the carousel cover only. List-slide footers carry WhatsApp, LINE, and Instagram | Hammad | projects/stock-drop |

diff --git a/to-dos/stock-drop.md b/to-dos/stock-drop.md
@@ -12,7 +12,6 @@ Project: [projects/stock-drop](../projects/stock-drop/README.md)
 
 From the [October critique](../projects/stock-drop/reviews/2026-10-critique.html):
 
-- [ ] **[Hammad]** "BALES" label: show it once per slide instead of on every section
 - [ ] **[Hammad]** Review the caption: [captions/2026-10.md](../projects/stock-drop/captions/2026-10.md)
 - [ ] **[Hammad]** Decide on text size: list lines are about 24px to fit 7 slides, below the roughly 28pt guideline. Options: keep it, allow 8–9 slides, or split the drop into two posts ([skills review](../docs/research/claude-skills.md#whats-useful-now))
 - [ ] **[Hammad]** Upload the original `ETA141026.xlsx` to `projects/stock-drop/data/` on GitHub. The file on record is a CSV rebuilt from the sheet's text
